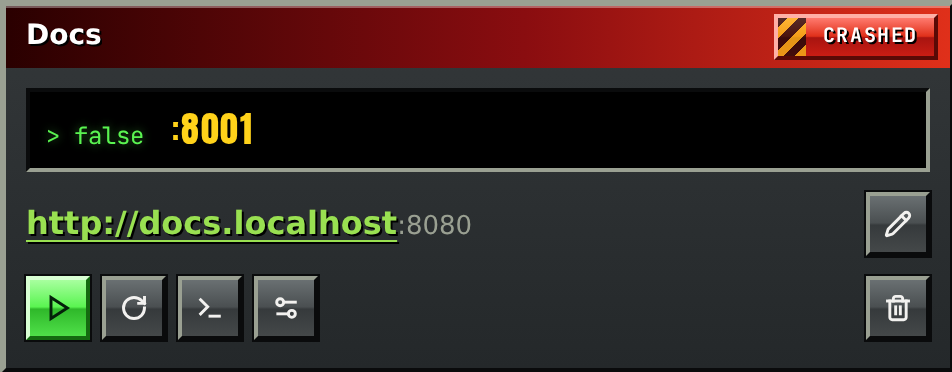
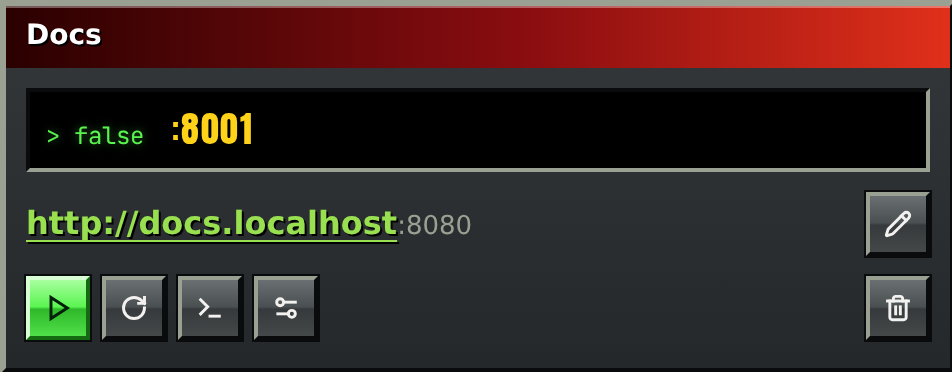
fix(site): CRASHED badge no longer shows twice in the exploded view
The card piece was cut from the whole Docs card, so it carried the badge while the badge piece lifted off on top of it.
The badge is now painted out of the card piece, by blending the title bar either side of it.

Changed region(s): [[0.792, 0.0296, 1.0, 0.1774]]

diff --git a/scripts/gen_site_assets.py b/scripts/gen_site_assets.py
@@ -39,7 +39,17 @@ PIECES = {
 shot = Image.open(SRC / "servers.png").convert("RGBA")
 shot.save(OUT / "app.png", optimize=True)
 for name, box in PIECES.items():
-    shot.crop(box).save(OUT / f"{name}.png", optimize=True)
+    piece = shot.crop(box)
+    if name == "p-card":
+        # the CRASHED badge is a piece of its own and lifts off the card: paint it out of the card, or it shows twice.
+        # The title bar is a horizontal gradient, so each row is a straight blend of the pixels either side of the badge.
+        x0, x1 = 764, 948
+        for y in range(6, 66):
+            a, b = piece.getpixel((x0, y)), piece.getpixel((x1, y))
+            for x in range(x0 + 1, x1):
+                t = (x - x0) / (x1 - x0)
+                piece.putpixel((x, y), tuple(round(a[i] + (b[i] - a[i]) * t) for i in range(4)))
+    piece.save(OUT / f"{name}.png", optimize=True)
 
 for name in ["card-running", "card-crashed", "card-starting", "tunnel-connected", "tunnel-reconnecting"]:
     shutil.copy(SRC / f"{name}.png", OUT / f"{name}.png")
